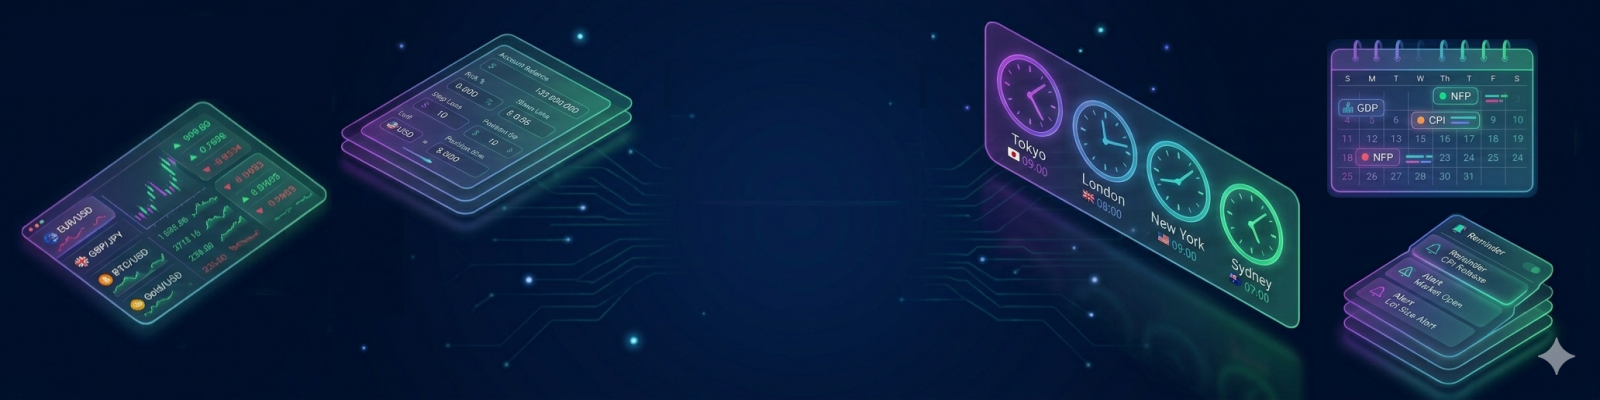
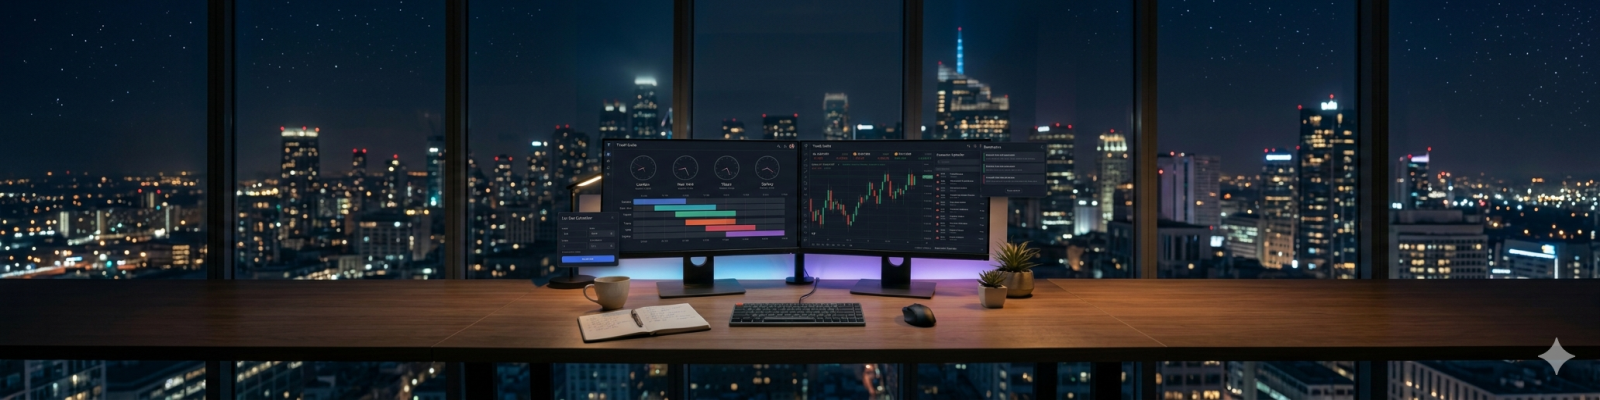
v1.0.2

diff --git a/README.md b/README.md
@@ -7,7 +7,7 @@ This repository serves as the centralized hub for storing, organizing, and deliv
 ## 📊 Status
 
 ![Status](https://img.shields.io/badge/status-active-brightgreen)
-![Version](https://img.shields.io/badge/version-1.0.1-blue)
+![Version](https://img.shields.io/badge/version-1.0.2-blue)
 ![License](https://img.shields.io/badge/license-Proprietary-red)
 
 ---